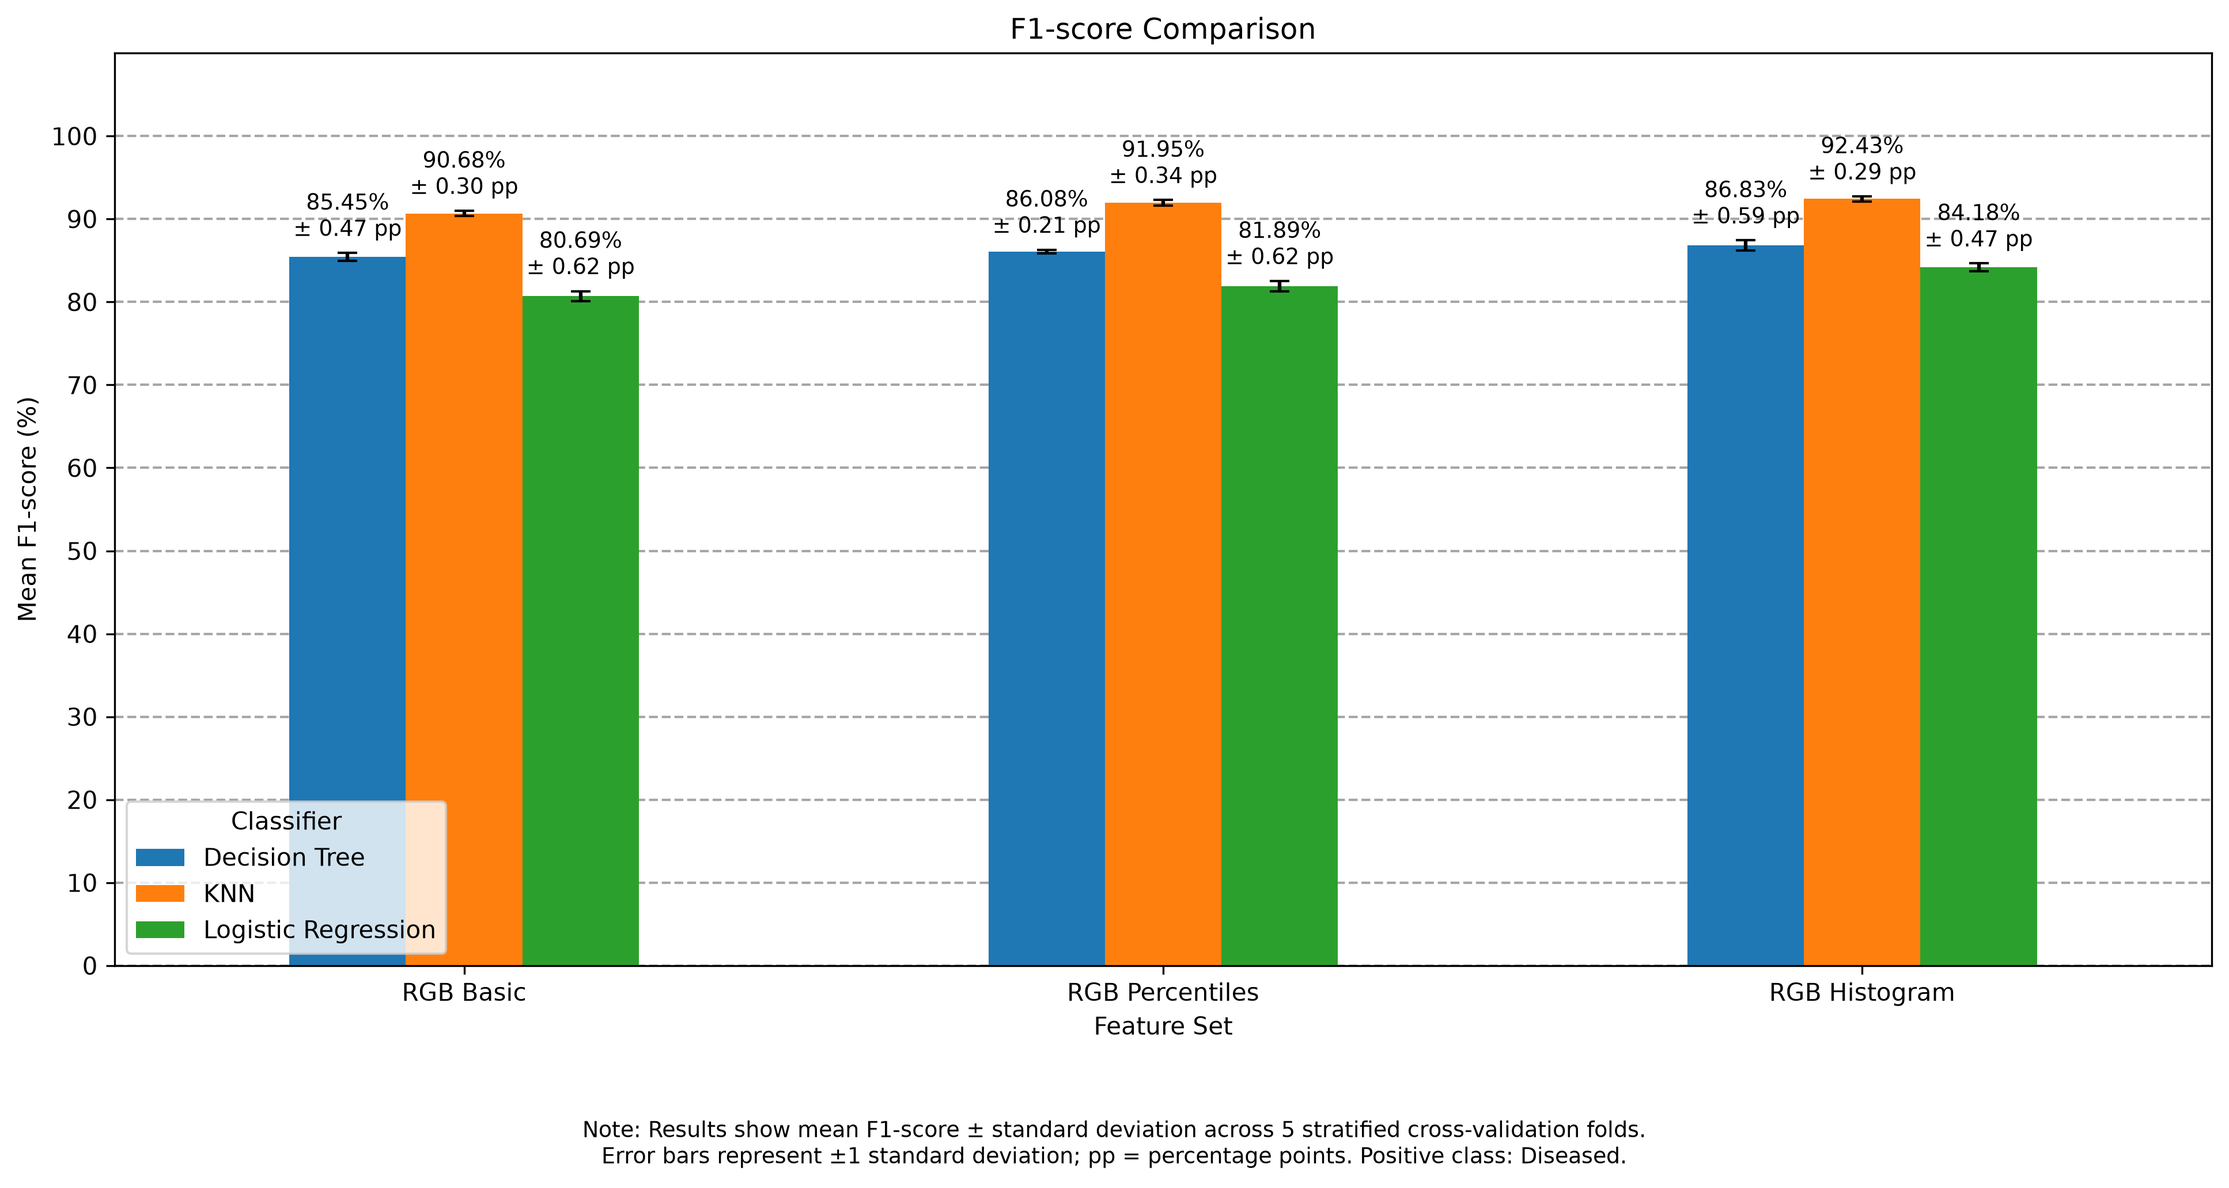
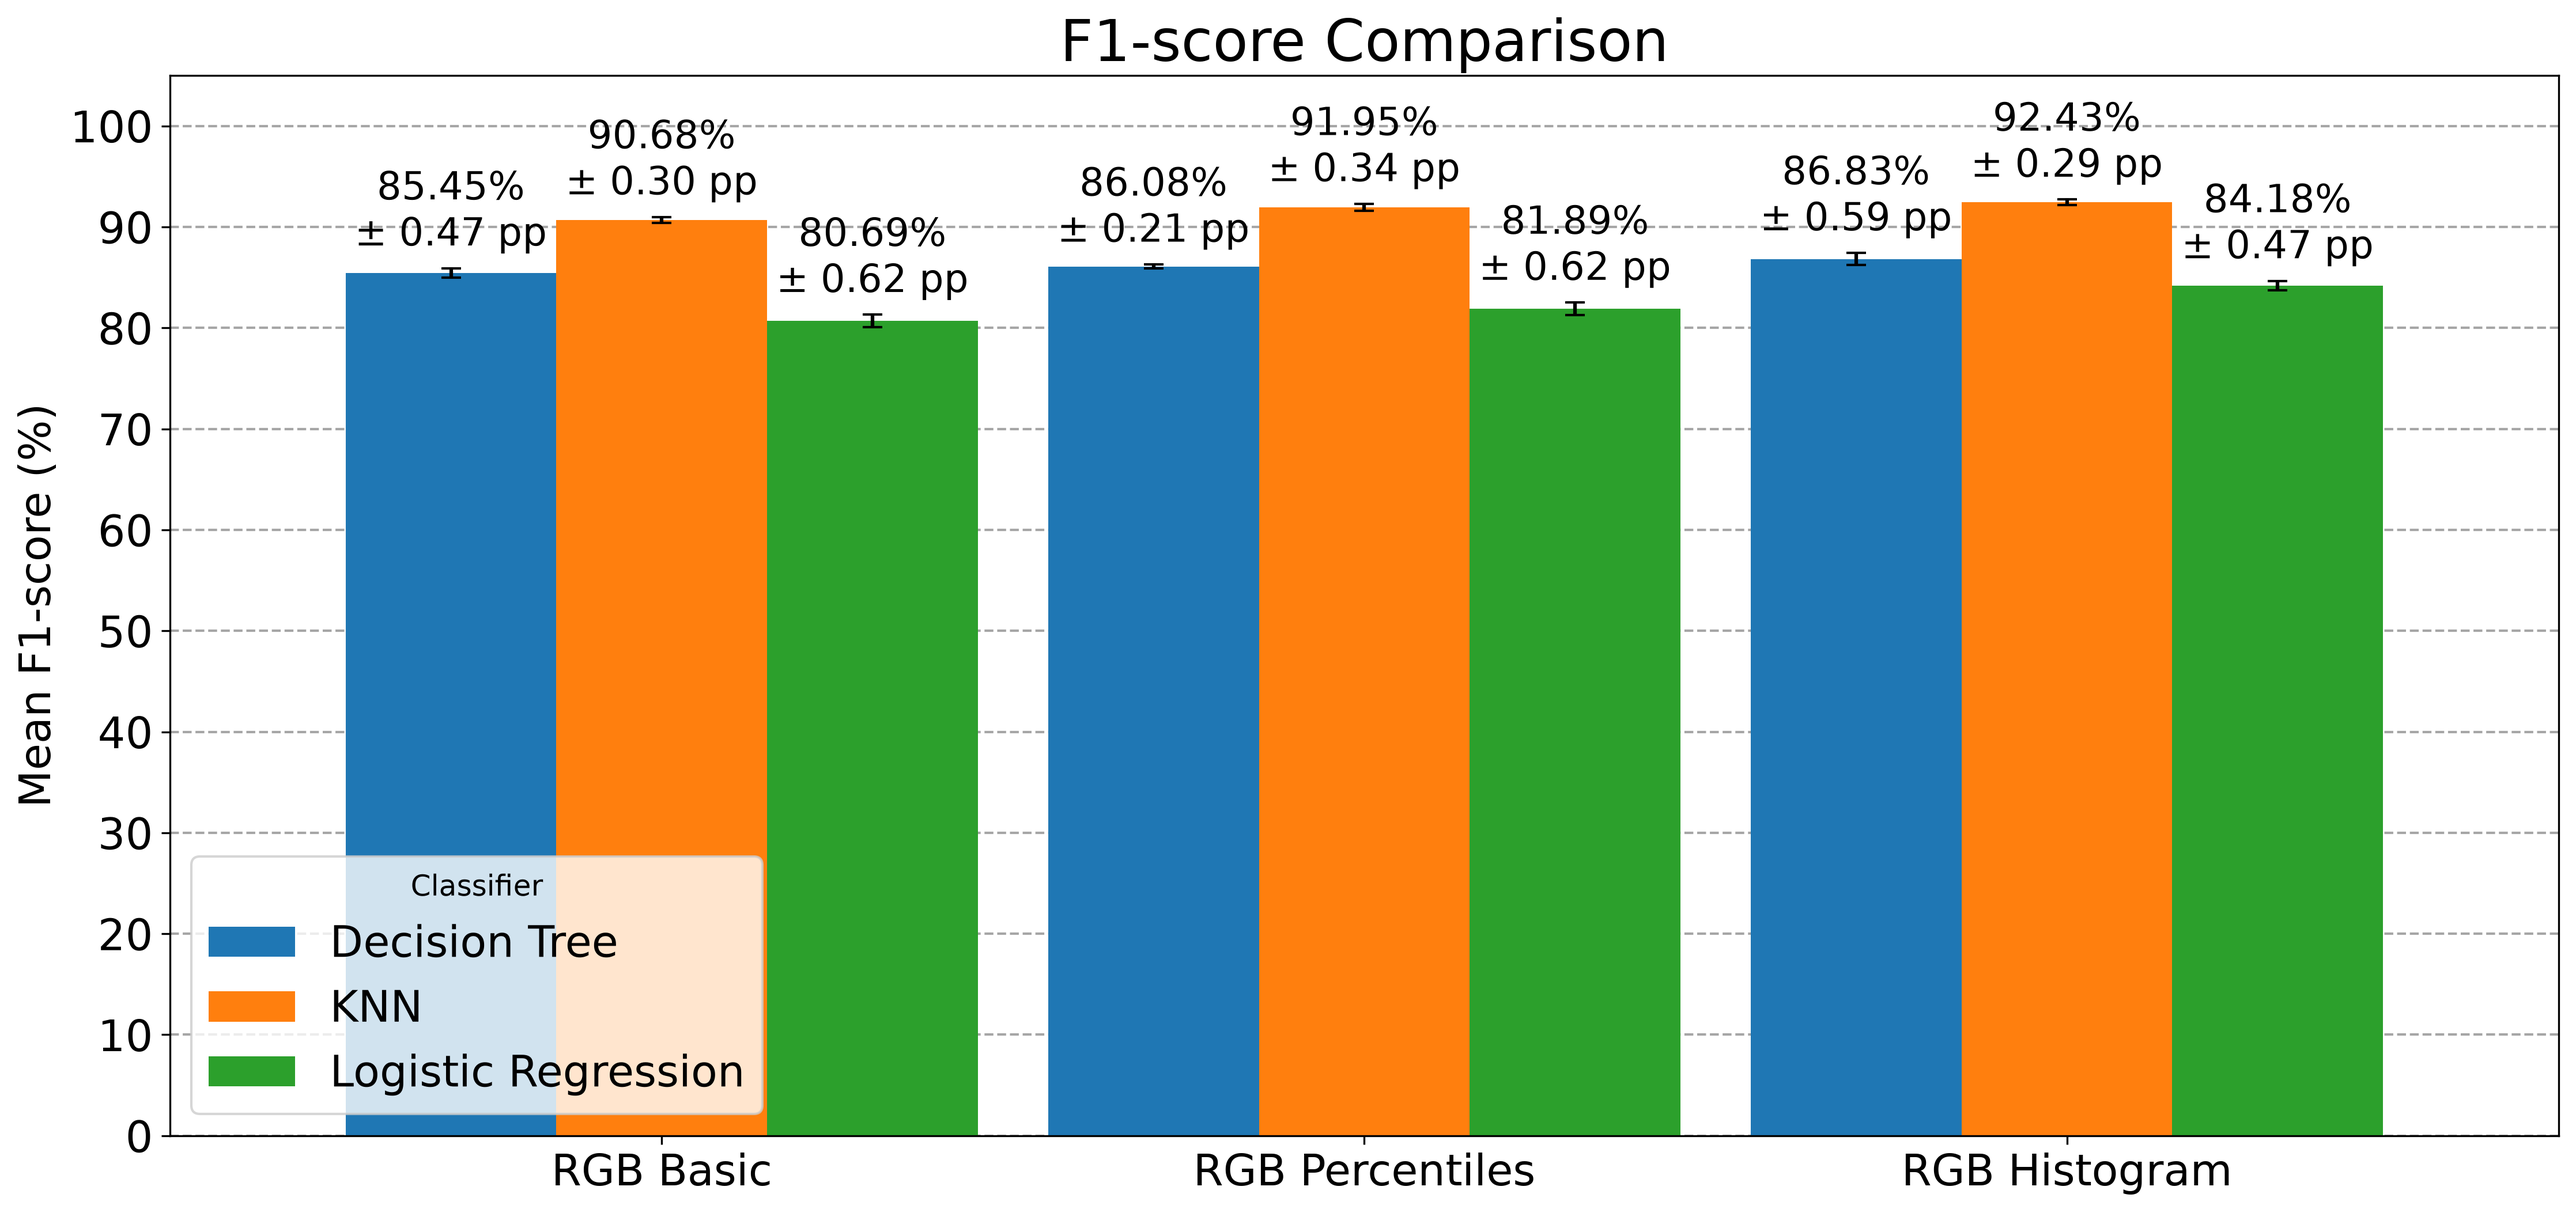
Improve evaluation plot readability
Refresh the comparison charts with larger labels and clearer confusion-matrix annotations. Remove plot notes and simplify confusion-matrix cell labels; update the generated result images.

diff --git a/src/plant_leaf_classification/main.py b/src/plant_leaf_classification/main.py
@@ -18,7 +18,7 @@ from plant_leaf_classification.feature_extractor import FeatureExtractor
 
 def save_features(images: pd.DataFrame, extract_method, file_path: str):
     """Extract features from each image and combine them with its original information, such as species and class. Save the results in a CSV file so the features can be reused without processing the images again."""
-    
+
     records = []
 
     for image in images.itertuples(index=False):
@@ -224,8 +224,8 @@ def plot_confusion_matrices():
     metadata = ["image_path", "species", "original_class", "binary_label"]
 
     cell_labels = [
-        ["True Negative (TN)", "False Positive (FP)"],
-        ["False Negative (FN)", "True Positive (TP)"],
+        ["TN", "FP"],
+        ["FN", "TP"],
     ]
 
     runner = ExperimentRunner()
@@ -242,7 +242,7 @@ def plot_confusion_matrices():
 
         predictions = runner.collect_species_predictions(data, folds)
 
-        fig, axes = plt.subplots(1, 3, figsize=(15, 5))
+        fig, axes = plt.subplots(1, 3, figsize=(18, 6.5))
 
         for model_name, ax in zip(models, axes):
             model_data = predictions[predictions["model"] == model_name]
@@ -273,14 +273,20 @@ def plot_confusion_matrices():
 
                     ax.text(
                         col, row,
-                        f"{cell_labels[row][col]}\n{value:,} cases\n{percentage:.1f}%",
+                        f"{cell_labels[row][col]}\n{value:,}\n{percentage:.1f}%",
                         ha="center",
                         va="center",
-                        fontsize=9,
+                        fontsize=20,
+                        fontweight="bold",
                         color=color
                     )
 
-            ax.set_title(model_name)
+            ax.set_title(model_name, fontsize=22)
+            ax.set_title(model_name, fontsize=22)
+            ax.set_xlabel("Predicted label", fontsize=18)
+            ax.set_ylabel("True label", fontsize=18)
+            ax.tick_params(axis="x", labelsize=16)
+            ax.tick_params(axis="y", labelsize=16)
 
             tn, fp, fn, tp = matrix.ravel()
 
@@ -293,15 +299,7 @@ def plot_confusion_matrices():
                 "tp": tp,
             })
 
-        fig.suptitle(f"Confusion Matrices - {title}")
-
-        fig.text(
-            0.5, 0.02,
-            f"Note: Counts represent all {len(base_data):,} balanced images evaluated across 5 stratified cross-validation folds.\n"
-            "Each image is evaluated once. Percentages are calculated relative to each actual class (row).",
-            ha="center",
-            fontsize=9
-        )
+        fig.suptitle(f"Confusion Matrices - {title}", fontsize=28)
 
         fig.tight_layout(rect=(0, 0.07, 1, 0.95))
         fig.savefig(
@@ -340,12 +338,13 @@ def plot_f1_scores():
     means = means.loc[order]
     stds = stds.loc[order, means.columns]
 
-    fig, ax = plt.subplots(figsize=(13, 7))
+    fig, ax = plt.subplots(figsize=(15, 8))
 
     means.plot(
         kind="bar",
         yerr=stds,
         capsize=4,
+        width=0.9,
         ax=ax
     )
 
@@ -361,26 +360,19 @@ def plot_f1_scores():
             container,
             labels=labels,
             padding=4,
-            fontsize=9
+            fontsize=16
         )
 
-    ax.set_title("F1-score Comparison")
-    ax.set_xlabel("Feature Set")
-    ax.set_ylabel("Mean F1-score (%)")
-    ax.set_ylim(0, 110)
+    ax.set_title("F1-score Comparison", fontsize=24)
+    ax.set_xlabel("")
+    ax.set_ylabel("Mean F1-score (%)", fontsize=18)
+    ax.set_ylim(0, 105)
     ax.set_yticks(range(0, 101, 10))
-    ax.tick_params(axis="x", rotation=0)
+    ax.tick_params(axis="x", rotation=0, labelsize=18)
+    ax.tick_params(axis="y", labelsize=18)
     ax.set_axisbelow(True)
     ax.grid(axis="y", linestyle="--", linewidth=1, alpha=0.7, color="gray")
-    ax.legend(title="Classifier")
-
-    fig.text(
-        0.5, 0.03,
-        "Note: Results show mean F1-score ± standard deviation across 5 stratified cross-validation folds.\n"
-        "Error bars represent ±1 standard deviation; pp = percentage points. Positive class: Diseased.",
-        ha="center",
-        fontsize=9
-    )
+    ax.legend(title="Classifier", fontsize=18, title_fontsize=12)
 
     fig.tight_layout(rect=(0, 0.11, 1, 1))
     fig.savefig(
@@ -405,9 +397,13 @@ def plot_species_accuracy():
 
     accuracy = accuracy.sort_values("KNN")
 
-    fig, ax = plt.subplots(figsize=(13, 9))
+    fig, ax = plt.subplots(figsize=(15, 10))
 
-    accuracy.plot(kind="barh", ax=ax)
+    accuracy.plot(
+        kind="barh",
+        width=0.75,
+        ax=ax
+    )
 
     # Display only the accuracy percentage on each bar.
     for bars in ax.containers:
@@ -415,33 +411,27 @@ def plot_species_accuracy():
             ax.bar_label(
                 bars,
                 fmt="%.1f%%",
-                padding=3,
-                fontsize=8
+                padding=4,
+                fontsize=16
             )
 
-    ax.set_title("Accuracy by Species - RGB Histogram")
-    ax.set_xlabel("Accuracy (%)")
-    ax.set_ylabel("Species")
+    ax.set_title("Accuracy by Species - RGB Histogram", fontsize=24)
+    ax.set_xlabel("Accuracy (%)", fontsize=20)
+    ax.set_ylabel("Species", fontsize=22, labelpad=-20)
     ax.set_xlim(0, 108)
     ax.set_xticks(range(0, 101, 10))
+
+    ax.tick_params(axis="x", labelsize=16)
+    ax.tick_params(axis="y", labelsize=16)
 
     # Enable grid lines to facilitate comparisons.
     ax.set_axisbelow(True)
     ax.grid(axis="x", linestyle="--", linewidth=1.2, alpha=0.7, color="gray")
 
     ax.legend(
-        title="Classifier",
-        loc="upper center",
-        bbox_to_anchor=(0.5, -0.07),
-        ncol=3
-    )
-
-    fig.text(
-        0.5, 0.02,
-        "Note: Accuracy represents correctly classified images as a percentage of each species' total.\n"
-        "Results are based on pooled validation predictions across 5 stratified cross-validation folds.",
-        ha="center",
-        fontsize=9
+        title=None,
+        fontsize=16,
+        loc="lower right"
     )
 
     fig.tight_layout(rect=(0, 0.13, 1, 1))
